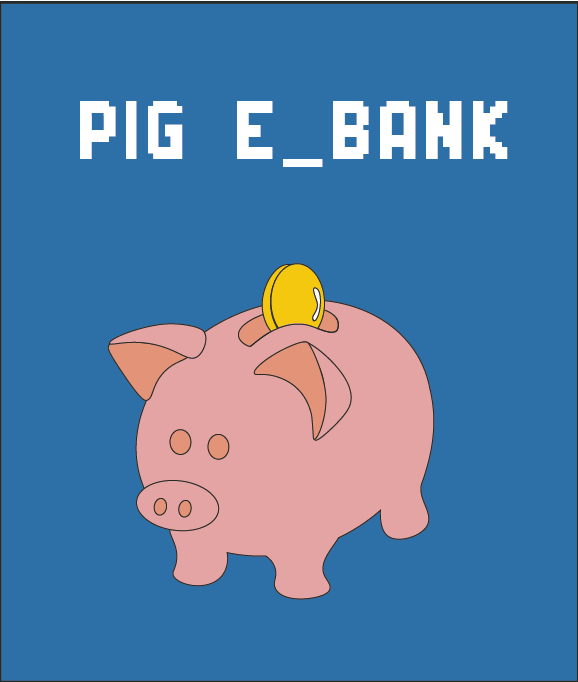
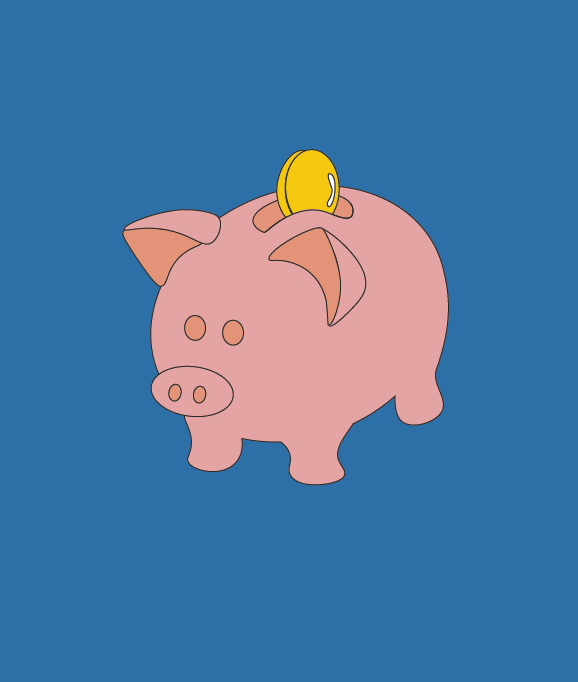
more responsive level 1

Changed region(s): [[0.1869, 0.1232, 0.9031, 0.893], [0.0, 0.0, 1.0, 1.0], [0.1246, 0.1232, 0.3426, 0.2463]]

diff --git a/Level1/styleLevel1.css b/Level1/styleLevel1.css
@@ -39,8 +39,8 @@ button {
   position:fixed;
   bottom:0;
   right:0;
-  width:50%;
-  height:50%;
+  width:7.5vw;
+  height:3.25vw;
   z-index:50;
   display:none;
 }
@@ -104,13 +104,15 @@ button {
   width:100%;
   display:flex;
   flex-wrap: wrap;
+  justify-content: start ;
+  align-content:start;
   overflow:hidden;
   margin:0 5vw;
 }
 
 .counterDesk {
-  width:15em;
-  height:6.5em;
+  width:15vw;
+  height:6.5vw;
   position:relative;
   background-image: url(../Assets/Graphics/Level1/deskBackground.png);
   background-repeat: no-repeat;
@@ -123,8 +125,8 @@ button {
   position:absolute;
   right:35%;
   bottom:0;
-  height:4em;
-  width:4.5em;
+  height:4vw;
+  width:5vw;
   background-size: contain;
   cursor:crosshair;
 }
@@ -149,7 +151,7 @@ button {
   background-color:black;
   color:white;
   letter-spacing: 3px;
-  font-size:0.8;
+  font-size:1vw;
   animation-name: fadeIn;
   animation-duration:1s;
 

diff --git a/index.html b/index.html
@@ -7,8 +7,8 @@
 </head>
 <body>
   <ul>
-    <li><a href="Level1/indexLevel1.html"id ='Level1'><img src="Assets/Graphics/menuThumbnails-01.png" alt=""></a></li>
-    <li><a href="Level2_b/index_2b.html"id ='Level2'><img src="Assets/Graphics/menuThumbnails-02.png" alt=""></a></li>
+    <li><a href="Level1/indexLevel1.html"id ='Level1'>Level 1</a></li>
+    <li><a href="Level2_b/index_2b.html"id ='Level2'>Level 2</a></li>
   </ul>
 </body>
 </html>

diff --git a/Level1/gameLevel1.js b/Level1/gameLevel1.js
@@ -6,7 +6,7 @@ var _playerHasWon = false;
 var _maxNumberOfGuess = 3;
 const _introduceAnswerDelay = 10;
 var _remainingGuessesNum = _maxNumberOfGuess;
-var numberOfDesks = 24;
+var numberOfDesks = 25;
 var _answerDeskHasBeenCreated = false;
 var desks = [];
 var _randomizeDeskTimer = 2;

diff --git a/level2_b/style_2b.css b/level2_b/style_2b.css
@@ -105,6 +105,7 @@ button {
 
 .insidePostIt {
   overflow-y:scroll;
+  overflow-x: hidden;
   height:75%;
   width:83%;
   margin-left:10%;
